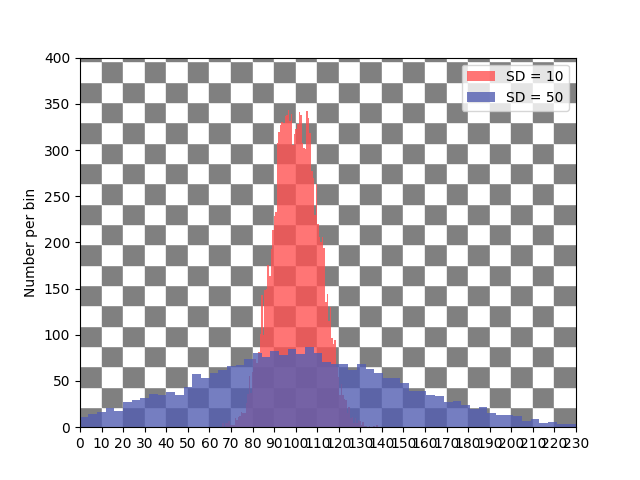
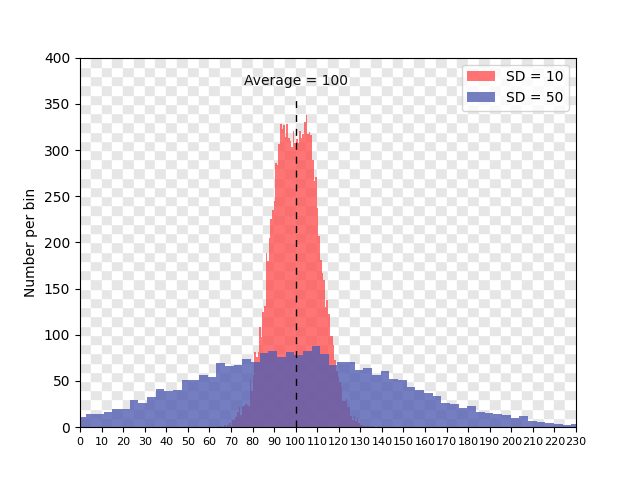
overlap

diff --git a/graphic/plot.py b/graphic/plot.py
@@ -1,4 +1,4 @@
-import math, numpy as np
+import math,inspect, numpy as np
 import matplotlib.pyplot as plt
 from matplotlib.ticker import FuncFormatter, MaxNLocator
 from matplotlib import colors
@@ -90,26 +90,33 @@ class Plot(object):
         # set the y limit
         plt.ylim(0,400)
         plt.xlim(0, 230)
-        # x = np.arange(len(l[0]))  # the label locations
         x=range(0,231,10)
         ax.set_xticks(x)
+        plt.xticks(fontsize=8)
         ax.set_ylabel('Number per bin')
         ax.legend(loc='upper right')
+        x1 = x2 = 100
+        y1, y2 = 0, 360
+        dashes = [5, 5]  # 10 points on, 5 off, 100 on, 5 off
+        line1, = ax.plot([x1,x2],[y1,y2], '--', linewidth=1,color='black')
+        line1.set_dashes(dashes)
+        txt='Average = 100'
+        position=(100,370)
+        self.drawTxt(ax,position,txt,center=True,color=self.black)
         plt.savefig("img/SD.png")
         # self.show()
     def drawGridLines(self, ax):
         # ax.set_aspect(.2)
-        wid = 10
-        hei = 22
+        wid = 5
+        hei = 10
         nrows = 400
         ncols = 230
-        inbetween = 10
         xx = np.arange(0, ncols, (wid))
         yy = np.arange(0, nrows, (hei))
         pat = []
         for ind,xi in enumerate(xx):
             for index,yi in enumerate(yy):
-                sq = patches.Rectangle((xi, yi), wid, hei, fill=True,color='white' if (index+ind)%2 else 'gray')
+                sq = patches.Rectangle((xi, yi), wid, hei, fill=True,color='white' if (index+ind)%2 else '#E6E6E6')
                 ax.add_patch(sq)
         ax.relim()
         ax.autoscale_view()
@@ -144,8 +151,12 @@ class Plot(object):
         fig, ax = plt.subplots()
         self.setTxt(ax,title,xTxt,yTxt)
         self.addScatter(ax,l)
-        self.setLables(ax,l)
-        self.show()
+        self.setLables(ax, l)
+        this_function_name = inspect.currentframe().f_code.co_name
+        self.save(plt,this_function_name)
+        # self.show()
+    def save(self,plt,this_function_name):
+        plt.savefig("img/{0}.png".format(this_function_name))
     def addScatter(self,ax,l):
         for ind,i in enumerate(l):
             y=i[1]
@@ -164,23 +175,32 @@ class Plot(object):
         ratio=mean/10**math.ceil(math.log10(mean))
         x1, y1 = x+.1, mean-mean*ratio
         x2, y2 = x+.1, mean+mean*ratio
-        position=(x+.2,mean-300*ratio)
-        ax.plot([x1, x2], [y1, y2])
+        position = (x + .2, mean - 300 * ratio)
+        self.drawArrow(ax,[x1, x2], [y1, y2])
+        self.drawTxt(ax,position,txt)
+    def drawTxt(self, ax, position, txt, center=False, color=None):
+        if color is None:
+            color=self.red
+        if isinstance(txt, str):
+            txt=[txt]
+        strings = [str(item) for item in txt]
+        ax.text(position[0], position[1], "\n".join(strings),
+        horizontalalignment='center' if center else 'left',
+        # verticalalignment='top',
+        # transform=ax.transAxes,
+        color=color)
+    def drawArrow(self,ax,x,y,arrowstyle="<->"):
+        ax.plot(x,y)
         # Axes.annotate(self, text, xy, *args, **kwargs)
         # Annotate the point xy with text 'text'.
         # Optionally, the text can be displayed in another position xytext. An arrow pointing from the text to the annotated point xy can then be added by defining arrowprops.
         ax.annotate("",
-                    xy=(x1, y1), xycoords='data',
-                    xytext=(x2, y2), textcoords='data',
-                    arrowprops=dict(arrowstyle="<->", color=self.red,
+                    xy=(x[0], y[0]), xycoords='data',
+                    xytext=(x[1], y[1]), textcoords='data',
+                    arrowprops=dict(arrowstyle=arrowstyle, color=self.red,
                                     shrinkA=0, shrinkB=0,
-                                    # patchA=None, patchB=None,
-                                    # txt=txt,
                                     ),
                     )
-        strings = [str(item) for item in txt]
-        ax.text(.05, .95, "\n".join(strings),
-                 position=position, va="bottom",color=self.red)
     def scatter(self, x=None, y=None):
         if x is None or y is None:
             x = self.info["x"]

diff --git a/graphic/text.py b/graphic/text.py
@@ -1,0 +1,79 @@
+import matplotlib.pyplot as plt
+import matplotlib.patches as patches
+
+# build a rectangle in axes coords
+left, width = .25, .5
+bottom, height = .25, .5
+right = left + width
+top = bottom + height
+
+fig = plt.figure()
+ax = fig.add_subplot(111)
+
+# axes coordinates are 0,0 is bottom left and 1,1 is upper right
+p = patches.Rectangle(
+    (left, bottom), width, height,
+    fill=False, transform=ax.transAxes, clip_on=False
+    )
+
+ax.add_patch(p)
+
+ax.text(left, bottom, 'left top',
+        horizontalalignment='left',
+        verticalalignment='top',
+        transform=ax.transAxes)
+
+ax.text(left, bottom, 'left bottom',
+        horizontalalignment='left',
+        verticalalignment='bottom',
+        transform=ax.transAxes)
+
+ax.text(right, top, 'right bottom',
+        horizontalalignment='right',
+        verticalalignment='bottom',
+        transform=ax.transAxes)
+
+ax.text(right, top, 'right top',
+        horizontalalignment='right',
+        verticalalignment='top',
+        transform=ax.transAxes)
+
+ax.text(right, bottom, 'center top',
+        horizontalalignment='center',
+        verticalalignment='top',
+        transform=ax.transAxes
+        )
+
+ax.text(left, 0.5*(bottom+top), 'right center',
+        horizontalalignment='right',
+        verticalalignment='center',
+        rotation='vertical',
+        transform=ax.transAxes)
+
+ax.text(left, 0.5*(bottom+top), 'left center',
+        horizontalalignment='left',
+        verticalalignment='center',
+        rotation='vertical',
+        transform=ax.transAxes)
+
+ax.text(0.5*(left+right), 0.5*(bottom+top), 'middle',
+        horizontalalignment='center',
+        verticalalignment='center',
+        fontsize=20, color='red',
+        transform=ax.transAxes)
+
+ax.text(right, 0.5*(bottom+top), 'centered',
+        horizontalalignment='center',
+        verticalalignment='center',
+        rotation='vertical',
+        transform=ax.transAxes)
+
+ax.text(left, top, 'rotated\nwith newlines',
+        horizontalalignment='center',
+        verticalalignment='center',
+        rotation=45,
+        transform=ax.transAxes)
+
+#ax.set_axis_off()
+# plt.show()
+plt.savefig('img/text.png')

diff --git a/test/test_SD.py b/test/test_SD.py
@@ -57,17 +57,17 @@ class TDD_TEST_SD(unittest.TestCase):
         fMean = self.d.getMean(self.l2)
         t1 = ['Female', 'Std. Dev.', int(round(self.s1))]
         t2 = ['Male', "Std. Dev", int(round(self.s2))]
-        # self.d.scatterGrouped(
-        #     [
-        #         ("Female", y2.values.tolist()+[fMean],t1),
-        #         ("Male", y1.values.tolist() + [mMean],t2),
-        #         ("Female Mean", [fMean]),
-        #         ("Male Mean", [mMean]),
-        #     ],
-        #     title=['Sample standard deviation of','metabolic rate in male and female fulmars'],
-        #     yTxt="Matabolic rate",
-        #     xTxt="Sex",
-        # )
+        self.d.scatterGrouped(
+            [
+                ("Female", y2.values.tolist()+[fMean],t1),
+                ("Male", y1.values.tolist() + [mMean],t2),
+                ("Female Mean", [fMean]),
+                ("Male Mean", [mMean]),
+            ],
+            title=['Sample standard deviation of','metabolic rate in male and female fulmars'],
+            yTxt="Matabolic rate",
+            xTxt="Sex",
+        )
     def test_PSD(self):
         l = [2, 4, 4, 4, 5, 5, 7, 9]
         p = self.d.getPSD(l)
